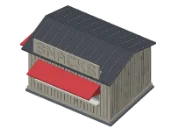
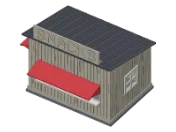
Standard buildings: closer to their references with the new tools
Compared with the reference pictures again:
- Container café: an awning over the side counter too, a planked door, a
  bin by the front corner, as the 10 ft container booth.
- Refreshment kiosk: a roof falling to the back as on the planked 015
  kiosk, a framed side window with a sill, a planked door.
- Ticket office: a flat roof with its billboard on it, as the Goodwood pair.
- Pit tower: brick below, as the Reims module, the window with sill and
  lintel; the glazed cab still leans out on top.
- Classic garage: a chimney, gutters and downpipes, sills and lintels on
  its windows, a panelled door with a lintel.
- Brick hut: sills and lintels, a panelled door, a chimney, gutters and a
  downpipe. First aid hut: sills and lintels, a panelled door.
- Wooden shed: a planked door, a window with shutters.

Their pictures are made again; the guide says what each has. The lean test
allows a wall's sill or lintel standing out of it.

diff --git a/src/building-presets.js b/src/building-presets.js
@@ -9,6 +9,8 @@ const door = (wall, at, frame = true) => ({ wall, type: 'door', at, width: 28, h
 const panes = (wall, at, width, height, sill, across, up) => ({ ...window(wall, at, width, height, sill), across, up });
 // An opening of a connected section or a shaped building: framed, a window with its panes.
 const shell = (wall, type, at, width, height, sill, across = 1, up = 1) => ({ wall, type, at, width, height, sill, frame: true, ...(type === 'window' && { across, up }) });
+// A window with a sill ledge under it and a lintel over it.
+const trims = (o) => ({ ...o, ledge: true, lintel: true });
 const hatch = (wall, at, width, height, sill, frame = false) => ({ ...window(wall, at, width, height, sill, frame), counter: true, flap: true });
 
 /** A row of pit garages side by side, one bay each, as many as wanted. */
@@ -167,7 +169,7 @@ const PRESETS = [
   {
     id: 'pit-tower',
     name: 'Pit tower',
-    note: 'An open pit box below, a planked storey, a cab leaning out on top, a staircase up the side',
+    note: 'An open brick pit box below, a brick storey, a glazed cab leaning out on top, a staircase up the side',
     building: {
       width: 80,
       depth: 80,
@@ -177,9 +179,9 @@ const PRESETS = [
       open: true,
       waist: 10,
       panes: 1,
-      wallTexture: 'planks',
+      wallTexture: 'brick',
       upper: [
-        { width: 80, depth: 80, x: 0, y: 0, height: 40, wallTexture: 'planks', openings: [window('front', 40, 40, 14, 16)] },
+        { width: 80, depth: 80, x: 0, y: 0, height: 40, wallTexture: 'brick', openings: [{ ...window('front', 40, 40, 14, 16), ledge: true, lintel: true }] },
         { width: 80, depth: 80, x: 0, y: 0, height: 40, wallTexture: 'planks', open: true, waist: 14, panes: 3, lean: 15 },
       ],
       access: 'stairs',
@@ -278,7 +280,7 @@ const PRESETS = [
   {
     id: 'hut-brick',
     name: 'Brick hut',
-    note: 'Bricks, windows of small panes, a step at the door, a two-sided roof',
+    note: 'Bricks, windows of small panes with sills and lintels, a panelled door with a step, a chimney, gutters and a downpipe',
     building: {
       width: 110,
       depth: 80,
@@ -294,7 +296,8 @@ const PRESETS = [
       overhangBack: 5,
       overhangLeft: 4,
       overhangRight: 4,
-      openings: [{ ...door('front', 24), step: true }, panes('front', 72, 44, 28, 14, 4, 2), panes('left', 40, 44, 28, 14, 4, 2), panes('right', 40, 44, 28, 14, 4, 2)],
+      openings: [{ ...door('front', 24), step: true, leaf: 'panels' }, trims(panes('front', 72, 44, 28, 14, 4, 2)), trims(panes('left', 40, 44, 28, 14, 4, 2)), trims(panes('right', 40, 44, 28, 14, 4, 2))],
+      chimney: { x: 55, y: 62, width: 10, depth: 8, height: 12 }, gutters: true, downpipes: 'left',
     },
   },
   {
@@ -316,7 +319,7 @@ const PRESETS = [
       overhangBack: 4,
       overhangLeft: 5,
       overhangRight: 5,
-      openings: [{ ...door('front', 24), step: true }, panes('front', 60, 26, 24, 16, 2, 3), panes('right', 35, 30, 24, 16, 2, 3)],
+      openings: [{ ...door('front', 24), step: true, leaf: 'panels' }, trims(panes('front', 60, 26, 24, 16, 2, 3)), trims(panes('right', 35, 30, 24, 16, 2, 3))],
     },
   },
   {
@@ -556,13 +559,14 @@ const PRESETS = [
   {
     id: 'stall-container',
     name: 'Container café',
-    note: 'A long converted container: serving awning, pickup counter, cargo doors and a roof sign',
+    note: 'A long converted container: serving awnings on the front and the side, cargo doors, a roof sign and a bin',
     building: {
       width: 190, depth: 76, height: 80, baseHeight: 4, door: 'none', wallTexture: 'metal', container: 'right',
       openings: [{...hatch('front', 95, 128, 32, 32, true), flapAngle: 20},
-        {...window('left', 38, 36, 25, 35), counter: true}, {...door('back', 50), height: 56}],
+        {...window('left', 38, 36, 25, 35), counter: true, flap: true, flapAngle: 20}, {...door('back', 50), height: 56, leaf: 'plain'}],
       overhangFront: 2, overhangBack: 2, overhangLeft: 2, overhangRight: 2,
       sign: 'billboard', signWidth: 130, signHeight: 16,
+      props: [{ type: 'drum', x: -26, y: -20, storey: -1 }],
     },
   },
   {
@@ -589,29 +593,26 @@ const PRESETS = [
   },
   {
     id: 'stall-kiosk', name: 'Refreshment kiosk',
-    note: 'Two serving faces with counters, propped awnings, boarded walls and a roof sign',
+    note: 'Two serving faces with counters, propped awnings, boarded walls, a framed side window, a roof falling to the back and a sign on it',
     building: {
       width: 150, depth: 110, height: 82, baseHeight: 4, door: 'none',
-      roof: 'gable', ridge: 'width', pitch: 18, roofTexture: 'seam', wallTexture: 'boards', plinth: 5,
-      openings: [hatch('front', 75, 108, 30, 32), hatch('left', 55, 58, 30, 32), {...door('back', 75),step:true}],
+      roof: 'slope', rises: 'front', pitch: 12, roofTexture: 'seam', wallTexture: 'boards', plinth: 5,
+      openings: [hatch('front', 75, 108, 30, 32), hatch('left', 55, 58, 30, 32), {...panes('right', 55, 30, 28, 34, 2, 2), ledge: true}, {...door('back', 75), step: true, leaf: 'planks'}],
       overhangFront: 10, overhangBack: 5, overhangLeft: 6, overhangRight: 6, sign: 'billboard', signWidth: 120, signHeight: 24,
     },
   },
   {
     id: 'stall-tickets',
     name: 'Ticket office',
-    note: 'Two small hatches with flaps, a two-sided roof, a billboard; print two for a pair',
+    note: 'Two small hatches with flaps, a flat roof with a billboard on it, a planked door; print two for a pair',
     building: {
       width: 95,
       depth: 85,
       height: 76,
       baseHeight: 4,
       door: 'none',
-      roof: 'gable',
-      ridge: 'width',
-      pitch: 25,
       wallTexture: 'planks',
-      openings: [hatch('front', 28, 30, 24, 30), hatch('front', 67, 30, 24, 30), door('back', 47.5, false)],
+      openings: [hatch('front', 28, 30, 24, 30), hatch('front', 67, 30, 24, 30), { ...door('back', 47.5, false), leaf: 'planks' }],
       overhangFront: 8,
       overhangBack: 4,
       overhangLeft: 4,
@@ -644,18 +645,19 @@ const PRESETS = [
   },
   {
     id: 'classic', name: 'Classic garage',
-    note: 'A heritage brick workshop: tiled gables, masonry trim, divided windows and a rear service door',
+    note: 'A heritage brick workshop: tiled gables, a chimney, gutters and downpipes, masonry trim, divided windows with sills and lintels, a rear service door',
     building: {
       roof: 'gable', ridge: 'depth', pitch: 35, wallTexture: 'brick', roofTexture: 'tile', plinth: 6, cornice: 4, pilasters: 60,
       overhangFront: 8, overhangBack: 8, overhangLeft: 6, overhangRight: 6,
-      openings: [panes('left', 50, 38, 28, 26, 2, 2), panes('left', 125, 38, 28, 26, 2, 2),
-        panes('right', 50, 38, 28, 26, 2, 2), panes('right', 125, 38, 28, 26, 2, 2), {...door('back', 60),step:true}],
+      openings: [trims(panes('left', 50, 38, 28, 26, 2, 2)), trims(panes('left', 125, 38, 28, 26, 2, 2)),
+        trims(panes('right', 50, 38, 28, 26, 2, 2)), trims(panes('right', 125, 38, 28, 26, 2, 2)), {...door('back', 60), step: true, leaf: 'panels', lintel: true}],
+      chimney: { x: 60, y: 150, width: 14, depth: 10, height: 14 }, gutters: true, downpipes: 'right',
     },
   },
   {
     id: 'shed',
     name: 'Wooden shed',
-    note: 'Planks and shingles',
+    note: 'Planks and shingles, a planked door, a window with shutters',
     building: {
       width: 100,
       depth: 120,
@@ -670,7 +672,7 @@ const PRESETS = [
       overhangBack: 8,
       overhangLeft: 6,
       overhangRight: 6,
-      openings: [door('front', 50), window('left', 60, 34, 24, 22)],
+      openings: [{ ...door('front', 50), leaf: 'planks' }, { ...window('left', 60, 24, 24, 22), shutters: true }],
     },
   },
   {

diff --git a/tests/lean.test.js b/tests/lean.test.js
@@ -76,7 +76,8 @@ test('a leaning storey: one body a part, fitting the plate, flat to print, nothi
       }
       // Walls and frames lie flat: as thin as they are, over no air.
       for (const p of parts.filter((q) => /^(front|back|left|right|frame)/.test(q.id))) {
-        assert.ok(printSize(p)[2] < 4.5, p.name + ' lies flat: ' + printSize(p) + ' ' + label);
+        // A wall and what stands out of it: 1.5 mm for a sill or a lintel.
+        assert.ok(printSize(p)[2] < 4.5 + 1.5 + 0.01, p.name + ' lies flat: ' + printSize(p) + ' ' + label);
         assert.ok(overAir(p) <= 0.5, p.name + ' prints ' + overAir(p).toFixed(1) + ' mm² over air ' + label);
       }
       for (let i = 0; i < parts.length; i++)

diff --git a/docs/GUIDE.md b/docs/GUIDE.md
@@ -161,7 +161,7 @@ The kit has a base plate (hollow underneath, with a groove for the walls), four 
 
 **Exploded view.** Drag **Exploded** above the model to pull the parts apart and see how they fit together. Each part comes off the way it goes on: the walls rise out of the groove in the base and move outward, so the groove and the mitred corners show; a floor lifts off the walls below with its lip and its groove; each storey lifts above the one below; the roof comes off the top, a two-sided roof parting at the ridge; the roller door slides back from its opening and a frame comes off its wall. The pieces of a part cut to fit the plate part at their seams, so the tabs show. Click a part to pick it out, apart or together; drag back to put the building together again. It only changes the view, not the kit.
 
-**Start from.** The left column shows the building's **Parts of the kit** at the top (back up to them when you choose a building), then **Your buildings**, then **Start from**: the standard buildings as pictures in groups (Start shapes, Pit buildings, Towers and offices, Marshal posts, Stands and spectators, Over the track, Stalls and signs). Type in **Find a building** to show only those whose name or note matches. Each group, and each card of settings on the right, folds shut from its title (or with Enter on it); **Fold all** and **Open all** fold or open every card, and the page remembers what is folded. The standard buildings are ready to print or to change: **Pit garage** (one bay), **Pit row** (four bays side by side; add as many more as you like under **Rooms**, a long row is cut into pieces that fit the plate), **Control tower** (three storeys stepping in, glazed on top), **VIP and hospitality** (a three-bay pit row with a glazed lounge and a terrace on top), **Marshal hut**, **Timing box** (raised, with a wide window), **Container office** (a 20 ft container at 1:32, 190 × 76 mm, with corner posts, rails, a ribbed roof and cargo doors at one end; **Container shell → Details** chooses None, Frame and ribbed roof, or the cargo doors on the left or right, for one closed storey with a flat roof), **Classic garage** (brick, a two-sided tiled roof) and **Wooden shed** (planks and shingles). Each is an ordinary building: every setting can be changed afterwards. A building can be up to 1500 mm long, with up to 24 rooms. **Garage door → Door → No garage door** leaves the garage door out, for a building that has only ordinary doors.
+**Start from.** The left column shows the building's **Parts of the kit** at the top (back up to them when you choose a building), then **Your buildings**, then **Start from**: the standard buildings as pictures in groups (Start shapes, Pit buildings, Towers and offices, Marshal posts, Stands and spectators, Over the track, Stalls and signs). Type in **Find a building** to show only those whose name or note matches. Each group, and each card of settings on the right, folds shut from its title (or with Enter on it); **Fold all** and **Open all** fold or open every card, and the page remembers what is folded. The standard buildings are ready to print or to change: **Pit garage** (one bay), **Pit row** (four bays side by side; add as many more as you like under **Rooms**, a long row is cut into pieces that fit the plate), **Control tower** (three storeys stepping in, glazed on top), **VIP and hospitality** (a three-bay pit row with a glazed lounge and a terrace on top), **Marshal hut**, **Timing box** (raised, with a wide window), **Container office** (a 20 ft container at 1:32, 190 × 76 mm, with corner posts, rails, a ribbed roof and cargo doors at one end; **Container shell → Details** chooses None, Frame and ribbed roof, or the cargo doors on the left or right, for one closed storey with a flat roof), **Classic garage** (brick, a two-sided tiled roof, a chimney, gutters and downpipes, windows with sills and lintels) and **Wooden shed** (planks and shingles, a planked door, a window with shutters). Each is an ordinary building: every setting can be changed afterwards. A building can be up to 1500 mm long, with up to 24 rooms. **Garage door → Door → No garage door** leaves the garage door out, for a building that has only ordinary doors.
 
 **Grandstands.** **Start from** has a **Grandstand** (six rows, one aisle, open to the sky), a **Covered grandstand** (eight rows under a canopy on posts) a **Curved grandstand** (round the outside of a bend), a **Spectators' stand** (five rows of wooden benches raised on braced frames, a staircase up the side, railings round it) and a **Mini stand** (two decks of wooden benches with backs on a base board, the back one raised on X-braced frames, steps between them). A grandstand has cards of its own. **Grandstand** sets its **Length**, how many **Rows**, how deep each row is and how much higher than the one before (toy proportions: 18 mm and 9 mm), how high the front row stands behind its parapet, the back wall above the last row, the **Aisles**, spread evenly, each with a half step on every row, whether every row has a bench, and whether the benches have backs (rows at least 16 mm deep). **Benches** chooses **Moulded into the rows** or **Wooden, of planks**: wooden benches stand on rows of planks, each a planked bench of its own (a seat, a back and two end frames, as the **Benches** kit), at the back of its row, between the aisles, no longer than 120 mm each; they are for a straight stand. **A parapet in front of the first row** can be left off for an open front. **Built of** makes it **A stepped shell** or **Decks on braced frames**: each row then a planked deck on frames along its front and its back and across its ends, braced with an X where they are high enough, all on a base board and open underneath; an aisle becomes a few steps from each deck up to the next. Decks, frames and the base board print flat, the steps on their side. It is for a straight stand open to the sky, with wooden benches or none. **Frame, stairs and railings**, for a straight stand: **Raised on frames** lifts it on braced frames that print flat, one along the front and one along the back under each section and one across at each end and each joint, its top pushed up into the hollow under the rows, which holds it square; a **Staircase** at either end or both climbs from the table to the last row and prints on its side; **Railings** run up the sides, part of the end panels, and along the back, a panel per section glued on the back of the back wall. Railings are for a stand open to the sky. **Shape** makes it **Straight** or **Curved**: curved, the rows follow an arc set by the **Radius at the front** and the **Angle**, facing into the curve for the outside of a bend or out of it for the inside, and the length then follows from them. **Roof** adds a canopy on posts, resting on the back wall. A grandstand is a hollow stepped shell, 3 mm thick, in sections that each print standing on their end: the stepped side lies on the plate and the rows rise straight up, so nothing prints over air: each aisle begins a section, its half steps standing on the plate. **Longest section** sets how tall a section prints, so set it to what your printer can print in height; a cut is made where each aisle begins, and none runs through one. The sections join end to end with two small tabs, in the parapet and the back wall. The first section is closed at its start, the end it prints on; the far end has an end panel of its own that prints flat. The canopy prints flat in pieces as long as the sections, its posts on their side. In the Track Planner a grandstand stands with its parapet towards the track, a curved one along its arc.
 
@@ -173,7 +173,7 @@ The kit has a base plate (hollow underneath, with a groove for the walls), four 
 
 **Modern pit lane.** **Start from → Modern pit lane**, **Pit garages with corporate boxes** and their low-relief version are built of bays you choose one by one under **Pit building**: **Single storey** (a garage, its flat roof with a solid upstand along the front and a truss railing round the rest), **Corporate box** (a storey over the garage, its glazing leaning out at the top, set back between tapering side fins under a roof that reaches out over the lane, a balcony slab in front with a railing of bars) or **Podium** (a box whose balcony reaches out further as a platform with angled sides, the podium on it, the railing round it); **+ Bay** adds one and mixes freely. A pillar stands out between each two garages. Under **Boxes and podiums** set the **Upper storey height**, how far the **Roof reaches out**, the **Glazing set back** and how far it **leans out**, how far the **Balcony reaches out**, and the railings and pillars. Each bay prints standing on its end; the closed side at its start is the wall between two garages and the fin of a frame, so the frames, the balconies and the roofs print straight up.
 
-**Marshal huts.** **Start from** has huts made from the general options: a **Brick hut** (windows of small panes, a step at the door), a **First aid hut** (a standing-seam roof), a **Large marshal hut** (wooden planks, a band of windows onto the track), a **Marshal hut on legs** (knee-braced legs, a staircase up the side), a **Marshal hut on frames** (an open cabin on braced frames under an arched roof), a **Marshal post on a frame** (a closed box with a glazed cab on top) and a **Brick marshal tower** (an open cab with a solid parapet in front). **Arched, higher in the middle** under **Roof** arches a flat roof on top along its ridge; its underside stays flat, so it prints flat on its frame. **Standing seams** is a roof texture of raised seams down the slope. **Railings** can also be **Solid, a parapet**.
+**Marshal huts.** **Start from** has huts made from the general options: a **Brick hut** (windows of small panes with sills and lintels, a panelled door with a step, a chimney and gutters), a **First aid hut** (a standing-seam roof, windows with sills and lintels), a **Large marshal hut** (wooden planks, a band of windows onto the track), a **Marshal hut on legs** (knee-braced legs, a staircase up the side), a **Marshal hut on frames** (an open cabin on braced frames under an arched roof), a **Marshal post on a frame** (a closed box with a glazed cab on top) and a **Brick marshal tower** (an open cab with a solid parapet in front). **Arched, higher in the middle** under **Roof** arches a flat roof on top along its ridge; its underside stays flat, so it prints flat on its frame. **Standing seams** is a roof texture of raised seams down the slope. **Railings** can also be **Solid, a parapet**.
 
 **Billboards and hoardings.** **Start from → Billboard** is a board on two posts for a poster, and **Hoarding** a long low board along the track on a post every 85 mm at most. Under **Billboard** choose the **Kind**, its **Length**, the **Board height**, how high it stands **Above the table** and **A raised border round the face**. A hoarding comes in pieces of up to two bays, each ending at a post, glued end to end. Each board prints on its back with its posts, the face up; a triangular strut glued behind each post stands it up.
 
@@ -225,9 +225,9 @@ A **Barrel vault** is an arch over the span, its axis along the **Ridge**, its c
 
 **Walkway bridge.** **Start from → Walkway bridge** is a covered walkway between two buildings, open at its ends where it meets them. Under **Walkway** set its **Length** to the gap between them, its **Width**, its **Wall height**, the **Deck above the table** as high as the floors it joins, the **Wall under the windows** and the **Panes along each side**; **On legs at its ends** stands it on legs, or leave it off to rest it on the buildings. **A tower at each end** makes it a whole piece: two towers (**Tower width**, **Tower depth**, **Tower height**, a **Pyramid** or **Flat** roof, windows up each front and back, one above the other), each built like a building of its own, a doorway in its wall where the walkway joins it at the height of its deck. **Control cab on top** puts a cab on the left, the right or both towers: a band of glazing leaning out, an open terrace over it under the roof. **Start from → Towers with a walkway** and **Control tower and crosswalk** (high over the track, a cab on the right tower) are made this way. Each side stands in a groove along the deck with a band of windows; the roof's two rails hold the sides apart. The deck prints the right way up, the roof upside down, the sides flat.
 
-**Serving hatches and signs.** A window can be a serving hatch: tick **Counter under it** for a level shelf below it, and **Flap propped open over it** for its shutter, leaning out over the window. Each prints flat, its top on the plate, with two small fins that stand up from it; glued on, the back edge of the fins lies on the wall (or on the window's frame) and sets the angle. **Flap angle, down from level** sets how far a flap leans out, from 0° (level) to 60°; its fins follow. A counter needs the window at least 15 mm up from the floor. **Sign** adds a board for the name of a stall, **Sign width** wide in the middle of the front: **Along the top of the front wall**, under the eaves, with everything in the front wall under it; or **A billboard on the roof**, standing up at the front edge of the roof, **Sign height** above it, its foot following the roof and two fins behind it resting on the roof. A billboard needs a roof that is level along the front: a flat roof, a single slope rising to the front or the back, or a two-sided roof with its ridge side to side. **Sign text** letters it, as large as the board allows with 2 mm clear all round: raised 0.6 mm, or 0.6 mm deep with **Cut in, not raised**: a sign along the wall and a roof billboard both print face up. A roof billboard's two fins are parts of their own, glued against its back 3 mm in from each end. **+ Lettering** under **Windows and doors** puts words on the chosen wall of the chosen storey: its **Text**, **Letters high** (4 to 40 mm), **Place** and **Up from the floor** (its middle), and **Cut in, not raised**. It keeps 4 mm from the ends of the wall and clear of windows, doors and their frames, the garage doors, the sign, the plinth and cornice, a container's rails, and other lettering; a texture keeps clear behind it, so the letters stand on a smooth patch. The letters are plain block capitals, A to Z, 0 to 9 and - + . , ' ! : / & #, their strokes at least 0.8 mm; lowercase letters come out as capitals. A billboard or hoarding by the track has **Text** too, raised on its face and shared by its pieces. Lettering shows in **Draw → Wall elevation**, and the README says how to paint it. Every other text has **Cut in, not raised** too, to engrave it rather than emboss it. A start gantry has **Board text** for its board (START, FINISH); on a lattice or timber board with start lights the text goes above them, and planks keep smooth behind it. A flag waver's post has **Board text** for its board, and a pit building a **Name board** along its fascia or over its doors: a flat plate with its letters raised or cut, glued on like the bay numbers, in their place. The standard buildings carry plain names, never brands: RACE CONTROL, RACE HQ, PRESS, VIP, CONTROL, a cross and FIRST AID, the marshal huts POST 1 to POST 6, the stalls' signs, START and FINISH on the gantries. Connected and shaped buildings have no lettering yet. **Start from → Container booth**, **Twin kiosk**, **Refreshment kiosk** and **Ticket office** are food and ticket stalls made this way, with two-sided roofs and billboards; print the ticket office twice for a pair.
+**Serving hatches and signs.** A window can be a serving hatch: tick **Counter under it** for a level shelf below it, and **Flap propped open over it** for its shutter, leaning out over the window. Each prints flat, its top on the plate, with two small fins that stand up from it; glued on, the back edge of the fins lies on the wall (or on the window's frame) and sets the angle. **Flap angle, down from level** sets how far a flap leans out, from 0° (level) to 60°; its fins follow. A counter needs the window at least 15 mm up from the floor. **Sign** adds a board for the name of a stall, **Sign width** wide in the middle of the front: **Along the top of the front wall**, under the eaves, with everything in the front wall under it; or **A billboard on the roof**, standing up at the front edge of the roof, **Sign height** above it, its foot following the roof and two fins behind it resting on the roof. A billboard needs a roof that is level along the front: a flat roof, a single slope rising to the front or the back, or a two-sided roof with its ridge side to side. **Sign text** letters it, as large as the board allows with 2 mm clear all round: raised 0.6 mm, or 0.6 mm deep with **Cut in, not raised**: a sign along the wall and a roof billboard both print face up. A roof billboard's two fins are parts of their own, glued against its back 3 mm in from each end. **+ Lettering** under **Windows and doors** puts words on the chosen wall of the chosen storey: its **Text**, **Letters high** (4 to 40 mm), **Place** and **Up from the floor** (its middle), and **Cut in, not raised**. It keeps 4 mm from the ends of the wall and clear of windows, doors and their frames, the garage doors, the sign, the plinth and cornice, a container's rails, and other lettering; a texture keeps clear behind it, so the letters stand on a smooth patch. The letters are plain block capitals, A to Z, 0 to 9 and - + . , ' ! : / & #, their strokes at least 0.8 mm; lowercase letters come out as capitals. A billboard or hoarding by the track has **Text** too, raised on its face and shared by its pieces. Lettering shows in **Draw → Wall elevation**, and the README says how to paint it. Every other text has **Cut in, not raised** too, to engrave it rather than emboss it. A start gantry has **Board text** for its board (START, FINISH); on a lattice or timber board with start lights the text goes above them, and planks keep smooth behind it. A flag waver's post has **Board text** for its board, and a pit building a **Name board** along its fascia or over its doors: a flat plate with its letters raised or cut, glued on like the bay numbers, in their place. The standard buildings carry plain names, never brands: RACE CONTROL, RACE HQ, PRESS, VIP, CONTROL, a cross and FIRST AID, the marshal huts POST 1 to POST 6, the stalls' signs, START and FINISH on the gantries. Connected and shaped buildings have no lettering yet. **Start from → Container booth**, **Twin kiosk**, **Refreshment kiosk** and **Ticket office** are food and ticket stalls made this way, with billboards: the container café has awnings over its front and its side and a bin beside it, the refreshment kiosk a roof falling to the back and a framed side window, the ticket office a flat roof; print the ticket office twice for a pair.
 
-**Storeys.** Under **Storeys**, **+ Storey** adds a storey on top, up to four in all. Each storey above is a building of its own: set its **Width**, **Depth** and **Wall height**, and where it stands, **From the left** and **From the front** walls of the storey below, outside to outside. It can be smaller than the storey below and set back, leaving a terrace, but it cannot reach past it. **Balcony in front** reaches the floor under it out over the front; **The balcony runs all round** reaches it out as far on every side, and **A railing round its floor** then runs along all four edges. **Start from → Pit tower** is an open pit box below, a planked storey and a cab leaning out on top, a staircase up the side to it, after the Reims pit tower (005T). **Start from → Race control tower** has four storeys: brick below, a balcony all round with lattice railings, an open cab on top. **Start from → Race headquarters** is a brick operations hall with a door and window rows, a terrace with lattice railings on top, a set-back leaning viewing cab, and a staircase up the right side. Windows can stand one above the other on a wall, with at least 6 mm of wall between them. Choose a storey there to set its **Windows and doors** and its wall texture under **Surface**; the garage door stays on the ground floor, and the roof sits on the top storey. Between two storeys lies a floor: it covers the storey below like a flat roof, its frame dropping inside the walls, with a groove on top where the walls of the next storey stand. The parts are named by storey, such as **Front wall, storey 2** and **Floor of storey 2**; a floor prints the right way up with its frame beside it. The README lays each floor and the walls on it in turn. Remove a storey with its **×**: the storeys above it go too.
+**Storeys.** Under **Storeys**, **+ Storey** adds a storey on top, up to four in all. Each storey above is a building of its own: set its **Width**, **Depth** and **Wall height**, and where it stands, **From the left** and **From the front** walls of the storey below, outside to outside. It can be smaller than the storey below and set back, leaving a terrace, but it cannot reach past it. **Balcony in front** reaches the floor under it out over the front; **The balcony runs all round** reaches it out as far on every side, and **A railing round its floor** then runs along all four edges. **Start from → Pit tower** is an open brick pit box below, a brick storey and a glazed cab leaning out on top, a staircase up the side to it, after the Reims pit tower (005T). **Start from → Race control tower** has four storeys: brick below, a balcony all round with lattice railings, an open cab on top. **Start from → Race headquarters** is a brick operations hall with a door and window rows, a terrace with lattice railings on top, a set-back leaning viewing cab, and a staircase up the right side. Windows can stand one above the other on a wall, with at least 6 mm of wall between them. Choose a storey there to set its **Windows and doors** and its wall texture under **Surface**; the garage door stays on the ground floor, and the roof sits on the top storey. Between two storeys lies a floor: it covers the storey below like a flat roof, its frame dropping inside the walls, with a groove on top where the walls of the next storey stand. The parts are named by storey, such as **Front wall, storey 2** and **Floor of storey 2**; a floor prints the right way up with its frame beside it. The README lays each floor and the walls on it in turn. Remove a storey with its **×**: the storeys above it go too.
 
 **Rooms.** Under **Size**, **Rooms** splits the ground floor into rooms **Side by side** or **Front to back**, two to four of them, each at least 40 mm. Each room is measured outside to outside, to the middle of a dividing wall, so the rooms are the building: rooms of 200 and 150 make it 350 mm wide, and **Width** (or **Depth**) follows them and cannot be typed while there are rooms. **+ Room** adds one as big as the last, **×** takes one away, and **One room** goes back to a single room of the same size. A dividing wall is 3 mm thick, like the outside walls: it stands in a groove of its own in the base, joined to the groove round the walls, reaches up to the ceiling (under a sloped roof it follows the roof) and is glued to the walls at its ends, where its top corners are notched so the frame of the roof or the floor above passes over them. Side by side, each room has its own garage door, as wide as **Garage door → Width**, in the middle of the room, and its own roller door; when you split a building into rooms the door is narrowed to fit the narrowest room if need be. Windows and doors keep 6 mm of wall beside a dividing wall where it meets an outside wall. A dividing wall is a part of its own, printed flat and cut to fit the plate like a wall. Rooms are for the ground floor; a garage over a pit bay has one room.
 
